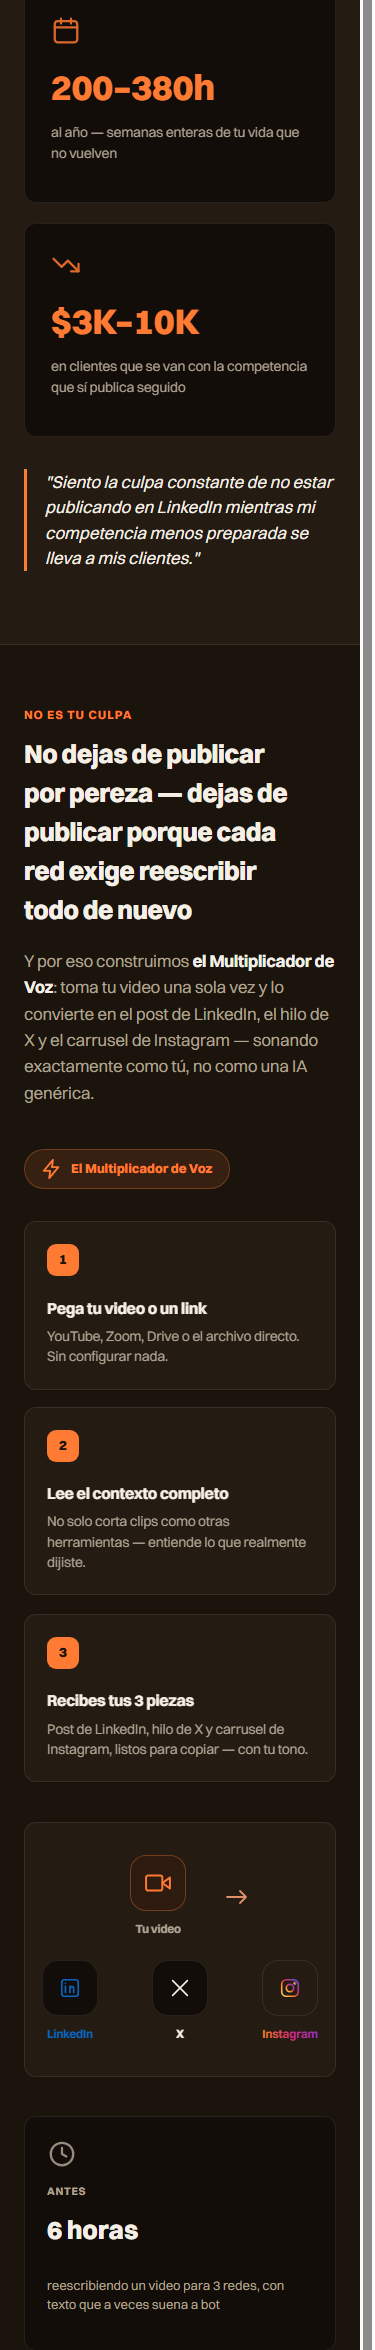
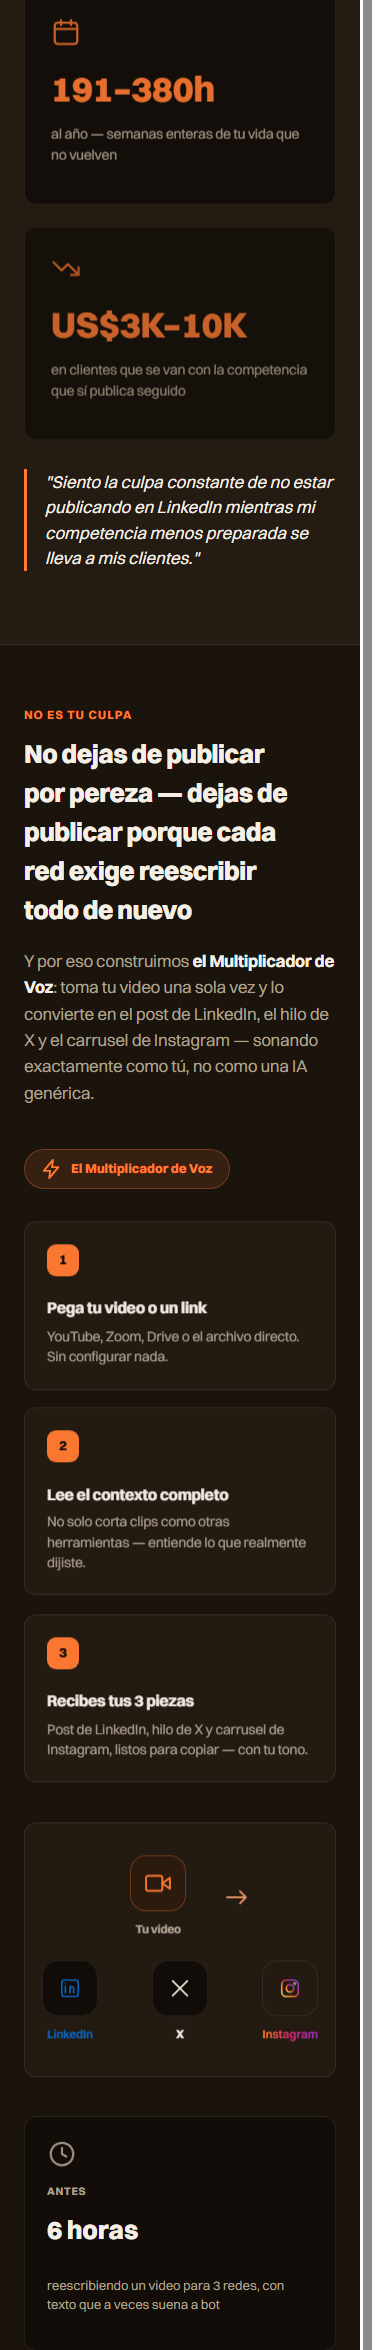
Fix: precios en US$/USD explícito, corrige bug de reemplazo previo
El usuario pidió que los precios se vean claramente en dólares
estadounidenses (US$ o USD) en vez de solo "$", para evitar ambigüedad
con moneda local en LATAM. Un primer intento de reemplazo automático
tenía un bug de escape en la regex de JS que corrompió varios números
($7.42 → $1.42, $500 → $100, etc.) — se detectó, revirtió y corrigió
antes de mostrárselo al usuario. Verificado visualmente que todos los
precios en landing.html, paywall.html, vista-previa-app.html y
direcciones-abc.html quedan como "US$X.XX".

diff --git a/landing.html b/landing.html
@@ -340,7 +340,7 @@
       </div>
       <div class="agit-stat reveal d3">
         <svg class="agit-ic" viewBox="0 0 24 24" fill="none" stroke="#ff7a33" stroke-width="1.8" stroke-linecap="round" stroke-linejoin="round"><path d="M22 17 13.5 8.5l-5 5L2 7"/><path d="M16 17h6v-6"/></svg>
-        <div class="num">$3K–10K</div><p>en clientes que se van con la competencia que sí publica seguido</p>
+        <div class="num">US$3K–10K</div><p>en clientes que se van con la competencia que sí publica seguido</p>
       </div>
     </div>
     <p class="agit-quote">"Siento la culpa constante de no estar publicando en LinkedIn mientras mi competencia menos preparada se lleva a mis clientes."</p>
@@ -426,7 +426,7 @@
           <div class="telefono"><div class="screen">
             <div style="font-size:10px;color:var(--text-2);font-weight:600;">DESBLOQUEA MÁS</div>
             <div style="font-family:var(--font-display);font-size:16px;font-weight:700;margin-top:4px;">Sigue publicando sin límite</div>
-            <div class="card" style="margin-top:12px;"><div class="head"><span class="net">$89/año</span><span class="copy">7 días gratis</span></div><p>= $7.42/mes · ahorras 43%</p></div>
+            <div class="card" style="margin-top:12px;"><div class="head"><span class="net">US$89/año</span><span class="copy">7 días gratis</span></div><p>= US$7.42/mes · ahorras 43%</p></div>
           </div></div>
           <p class="cap">Sin límite de videos<span>Cuando ya viste tu primer resultado</span></p>
         </div>
@@ -443,18 +443,18 @@
     <span class="kicker">Lo que desbloqueas</span>
     <h2 style="margin-top:10px; font-size:clamp(26px,3vw,34px); font-weight:800;">Todo lo que necesitas para no volver a reescribir un video</h2>
     <div class="stack">
-      <div class="row"><span>El Multiplicador de Voz — videos ilimitados</span><span class="val">$49/mes</span></div>
-      <div class="row"><span>Selector de tono por pieza</span><span class="val">$19/mes</span></div>
-      <div class="row"><span>Exportación sin marca de agua</span><span class="val">$15/mes</span></div>
-      <div class="row"><span>Historial de piezas generadas</span><span class="val">$9/mes</span></div>
-      <div class="total"><span>Valor total</span><span class="real">$92/mes</span></div>
+      <div class="row"><span>El Multiplicador de Voz — videos ilimitados</span><span class="val">US$49/mes</span></div>
+      <div class="row"><span>Selector de tono por pieza</span><span class="val">US$19/mes</span></div>
+      <div class="row"><span>Exportación sin marca de agua</span><span class="val">US$15/mes</span></div>
+      <div class="row"><span>Historial de piezas generadas</span><span class="val">US$9/mes</span></div>
+      <div class="total"><span>Valor total</span><span class="real">US$92/mes</span></div>
     </div>
     <div class="planes">
       <div class="plan rec reveal">
         <span class="badge">5 meses gratis</span>
         <p class="trial">7 días gratis</p>
-        <p class="price">$7.42<span>/mes</span></p>
-        <p class="note">Se cobra $89.00/año</p>
+        <p class="price">US$7.42<span>/mes</span></p>
+        <p class="note">Se cobra US$89.00/año</p>
         <ul>
           <li>✓ Videos ilimitados</li>
           <li>✓ Tono personalizado</li>
@@ -465,7 +465,7 @@
       </div>
       <div class="plan reveal d1">
         <p class="trial">7 días gratis</p>
-        <p class="price">$12.99<span>/mes</span></p>
+        <p class="price">US$12.99<span>/mes</span></p>
         <p class="note">Facturado mes a mes</p>
         <ul>
           <li>✓ Videos ilimitados</li>
@@ -514,7 +514,7 @@
       </details>
       <details class="qa">
         <summary>¿Vale la pena pagar por esto?<svg class="chev icon" viewBox="0 0 24 24" fill="none" stroke="#b0a392" stroke-width="2" stroke-linecap="round" stroke-linejoin="round"><path d="m6 9 6 6 6-6"/></svg></summary>
-        <p>Una agencia de repurposing cobra desde $500/mes. Clip2Post te cuesta menos de $0.50 al día — y no depende de que alguien más te entregue a tiempo.</p>
+        <p>Una agencia de repurposing cobra desde US$500/mes. Clip2Post te cuesta menos de US$0.50 al día — y no depende de que alguien más te entregue a tiempo.</p>
       </details>
       <details class="qa">
         <summary>¿Es seguro pagar aquí?<svg class="chev icon" viewBox="0 0 24 24" fill="none" stroke="#b0a392" stroke-width="2" stroke-linecap="round" stroke-linejoin="round"><path d="m6 9 6 6 6-6"/></svg></summary>

diff --git a/paywall.html b/paywall.html
@@ -108,7 +108,7 @@
   <div class="beneficios reveal d5">
     <div class="beneficio">
       <span class="bic"><svg width="16" height="16" viewBox="0 0 24 24" fill="none" stroke="#ff7a33" stroke-width="1.8" stroke-linecap="round" stroke-linejoin="round"><path d="M23 7l-7 5 7 5V7z"/><rect x="1" y="5" width="15" height="14" rx="2"/></svg></span>
-      <p><b>Videos ilimitados</b>convierte todos los que grabes, no solo este — menos de $0.30 al día (una agencia cobra desde $500/mes)</p>
+      <p><b>Videos ilimitados</b>convierte todos los que grabes, no solo este — menos de US$0.30 al día (una agencia cobra desde US$500/mes)</p>
     </div>
     <div class="beneficio">
       <span class="bic"><svg width="16" height="16" viewBox="0 0 24 24" fill="none" stroke="#ff7a33" stroke-width="1.8" stroke-linecap="round" stroke-linejoin="round"><path d="M4 21v-7M4 10V3M12 21v-11M12 6V3M20 21v-5M20 12V3"/><path d="M1 14h6M9 10h6M17 16h6"/></svg></span>
@@ -132,15 +132,15 @@
       <div>
         <span class="badge">7 días gratis · 5 meses gratis</span>
         <p class="l" style="margin-top:6px;">Anual</p>
-        <p class="price">$7.42<span>/mes</span></p>
-        <p class="note">Se cobra $89.00/año</p>
+        <p class="price">US$7.42<span>/mes</span></p>
+        <p class="note">Se cobra US$89.00/año</p>
       </div>
       <span class="radio"></span>
     </div>
     <div class="plan" id="planMensual">
       <div>
         <p class="l">Mensual</p>
-        <p class="price">$12.99<span>/mes</span></p>
+        <p class="price">US$12.99<span>/mes</span></p>
         <p class="note">Facturado mes a mes</p>
       </div>
       <span class="radio"></span>
@@ -169,9 +169,9 @@
     el.classList.add('sel');
     cta.textContent = 'Desbloquear mi plan — ' + price;
   }
-  planAnual.addEventListener('click', function(){ selectPlan(planAnual, '$7.42/mes'); });
-  planMensual.addEventListener('click', function(){ selectPlan(planMensual, '$12.99/mes'); });
-  cta.textContent = 'Desbloquear mi plan — $7.42/mes';
+  planAnual.addEventListener('click', function(){ selectPlan(planAnual, 'US$7.42/mes'); });
+  planMensual.addEventListener('click', function(){ selectPlan(planMensual, 'US$12.99/mes'); });
+  cta.textContent = 'Desbloquear mi plan — US$7.42/mes';
   cta.addEventListener('click', function(){ window.location.href = 'login.html'; });
 </script>
 

diff --git a/vista-previa-app.html b/vista-previa-app.html
@@ -228,8 +228,8 @@
         <div class="result">✓ Tu primer post de LinkedIn ya está listo. Desbloquea para copiarlo y generar el hilo de X + el carrusel.</div>
         <h2>Sigue publicando sin límite</h2>
         <p class="sub">Videos ilimitados, exportación sin marca de agua, tono personalizado.</p>
-        <div class="plan"><span class="badge">7 días gratis</span><div class="price">$89<span>/año</span></div><div class="note">= $7.42/mes · ahorras 43%</div></div>
-        <div class="planb"><span>Mensual</span><span>$12.99/mes</span></div>
+        <div class="plan"><span class="badge">7 días gratis</span><div class="price">US$89<span>/año</span></div><div class="note">= US$7.42/mes · ahorras 43%</div></div>
+        <div class="planb"><span>Mensual</span><span>US$12.99/mes</span></div>
         <div class="cta">Empezar prueba gratis</div>
         <p class="trial">Sin tarjeta hoy · te avisamos antes de cobrar</p>
       </div>
